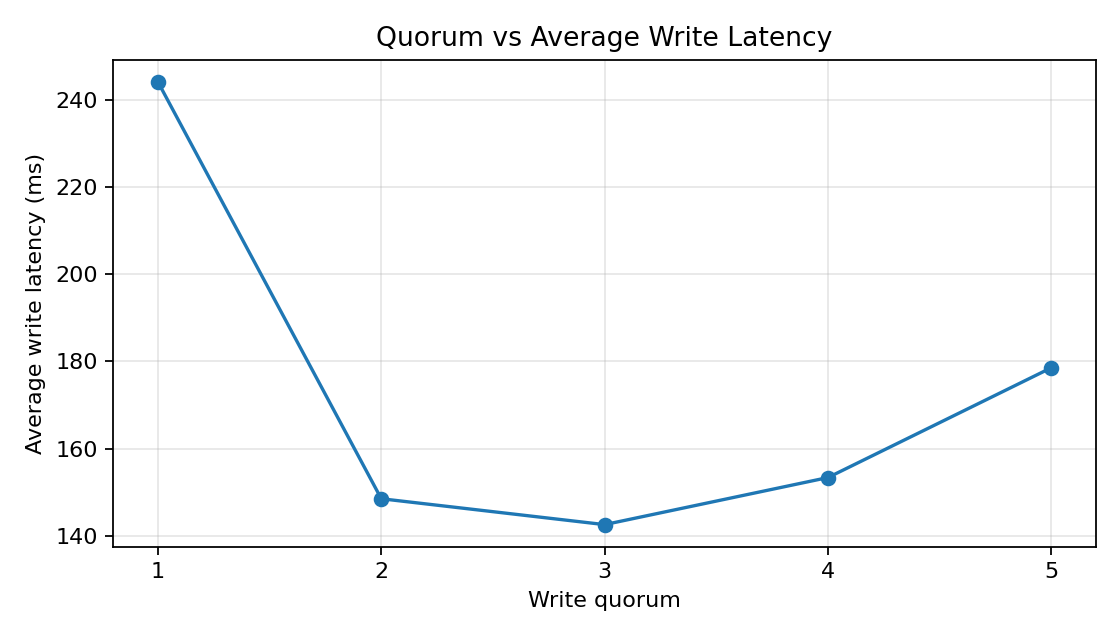
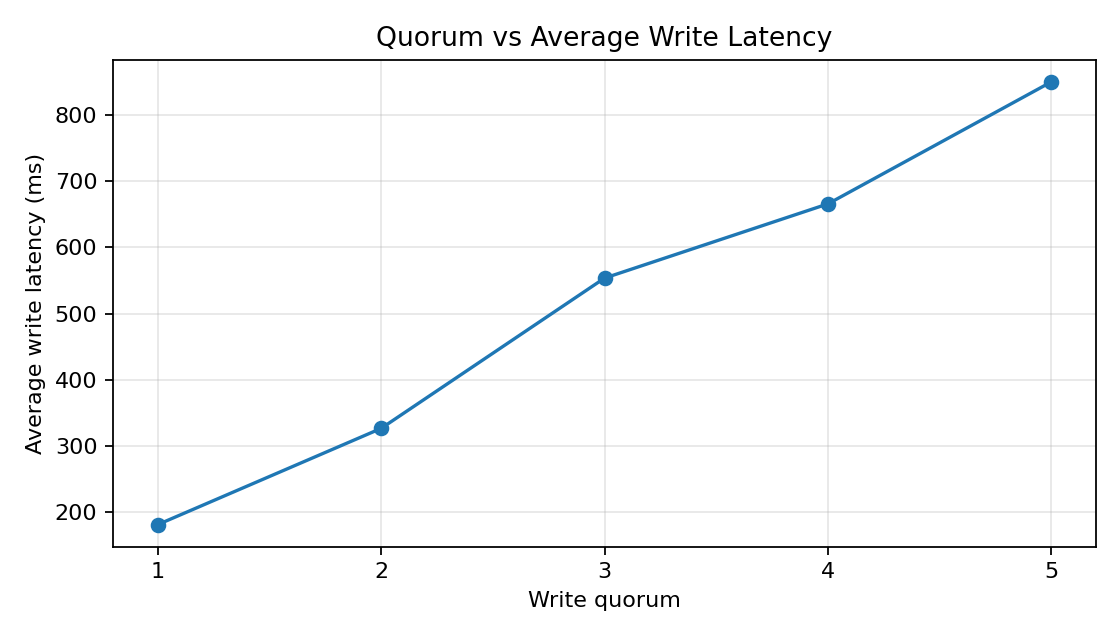
Update benchmark results and enhance workload function to include follower health checks

diff --git a/scripts/benchmark.py b/scripts/benchmark.py
@@ -15,6 +15,7 @@ ARTIFACTS_DIR = os.path.join(ROOT, "artifacts")
 
 LEADER_BASE = "http://localhost:8000"
 FOLLOWER_PORTS = [8001, 8002, 8003, 8004, 8005]
+FOLLOWER_SERVICES = ["follower1", "follower2", "follower3", "follower4", "follower5"]
 
 
 def run_compose(args: list[str], extra_env: dict[str, str] | None = None) -> None:
@@ -54,9 +55,13 @@ class RunResult:
 
 
 async def workload(quorum: int, min_delay_ms: int, max_delay_ms: int, replicate_timeout_ms: int) -> RunResult:
-    # Recreate leader with new quorum/delay settings (compose env-var substitution)
+    # Recreate leader *and followers*.
+    #
+    # Important: followers keep in-memory state across benchmark runs if we only
+    # restart the leader. That makes the dump equality checks (mismatch_*) measure
+    # cross-run residue rather than replication correctness.
     run_compose(
-        ["up", "-d", "--no-deps", "--force-recreate", "leader"],
+        ["up", "-d", "--no-deps", "--force-recreate", "leader", *FOLLOWER_SERVICES],
         extra_env={
             "WRITE_QUORUM": str(quorum),
             "MIN_DELAY_MS": str(min_delay_ms),
@@ -66,6 +71,8 @@ async def workload(quorum: int, min_delay_ms: int, max_delay_ms: int, replicate_
     )
 
     await wait_health(f"{LEADER_BASE}/health")
+    for port in FOLLOWER_PORTS:
+        await wait_health(f"http://localhost:{port}/health")
 
     sem = asyncio.Semaphore(10)  # 10 at a time
     latencies: list[float] = []
